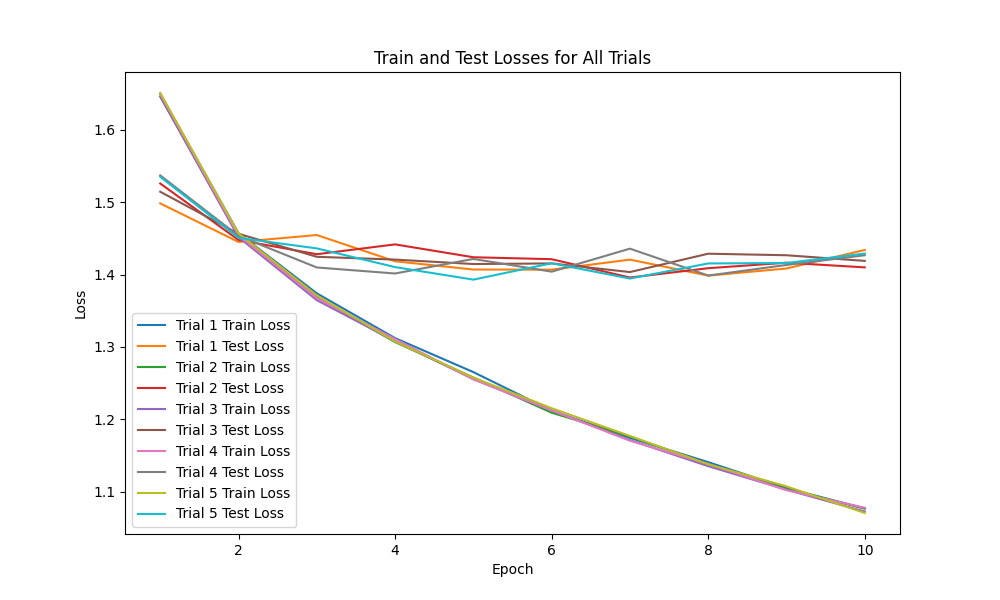
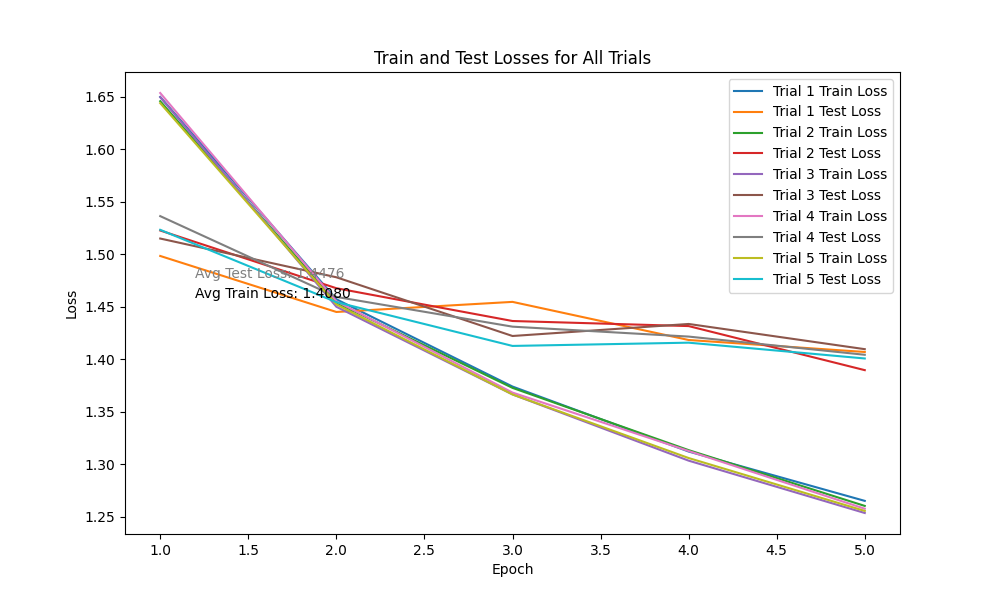
add the avg. metrics (accuracy, std., loss)

diff --git a/benchmark_2layers.py b/benchmark_2layers.py
@@ -6,6 +6,7 @@ from sklearn.metrics import accuracy_score
 import matplotlib.pyplot as plt
 import time
 import torch.optim as optim
+import numpy as np
 
 # Set device (GPU if available, else CPU)
 device = 'cuda' if torch.cuda.is_available() else 'cpu'
@@ -47,7 +48,7 @@ class TwoLayerNet(nn.Module):
 
 # Training parameters
 num_trials = 5
-trial_epochs = 10 # training epochs within each trial
+trial_epochs = 5
 
 # Store trial metrics
 trial_metrics = []
@@ -71,8 +72,7 @@ for trial in range(num_trials):
     
     # Store loss values for plotting
     train_losses = []
-    test_losses = []  # Initialize test loss list for each trial
-    accuracies = []   # Initialize accuracy list for each trial
+    test_losses = []  
 
     start_trial_time = time.time()  # Record start time of trial
 
@@ -117,7 +117,6 @@ for trial in range(num_trials):
 
             test_loss /= len(testloader)  # Calculate average test loss
             accuracy = accuracy_score(all_labels, all_preds)
-            accuracies.append(accuracy)  # Append accuracy to the list
 
             test_losses.append(test_loss)  # Append test loss to the list
 
@@ -128,14 +127,31 @@ for trial in range(num_trials):
     trial_metrics.append({
         "train_losses": train_losses,
         "test_losses": test_losses,
-        "accuracies": accuracies
+        "accuracy": accuracy
     })
     
-
 # Calculate the total time taken for all trials
 end_time = time.time()
 total_time = end_time - start_time
 print(f"Total time taken for all trials: {total_time:.2f} seconds")
+
+# Calculate average training and testing losses and accuracy
+avg_train_losses = [sum(metrics['train_losses']) / trial_epochs for metrics in trial_metrics]
+avg_test_losses = [sum(metrics['test_losses']) / trial_epochs for metrics in trial_metrics]
+avg_accuracies = [metrics['accuracy'] for metrics in trial_metrics]
+
+# Calculate average standard deviations of training and testing losses
+std_train_losses = [np.std(metrics['train_losses']) for metrics in trial_metrics]
+std_test_losses = [np.std(metrics['test_losses']) for metrics in trial_metrics]
+
+# Calculate and print average values
+avg_train_loss = sum(avg_train_losses) / num_trials
+avg_test_loss = sum(avg_test_losses) / num_trials
+avg_accuracy = sum(avg_accuracies) / num_trials
+
+# Calculate and print average standard deviations
+avg_std_train_loss = sum(std_train_losses) / num_trials
+avg_std_test_loss = sum(std_test_losses) / num_trials
 
 # Concatenate the losses from all trials
 all_train_losses = []
@@ -153,5 +169,20 @@ for trial in range(num_trials):
 plt.xlabel('Epoch')
 plt.ylabel('Loss')
 plt.title('Train and Test Losses for All Trials')
-plt.legend()
+
+# Add legend with average metrics
+plt.legend() 
+
+# Add average metrics annotations with adjusted x-coordinates
+x_coord = 1.2  # Adjust the x-coordinate for better positioning
+plt.text(x_coord, avg_train_loss + 0.05, f'Avg Train Loss: {avg_train_loss:.4f}', color='black')
+plt.text(x_coord, avg_test_loss + 0.03, f'Avg Test Loss: {avg_test_loss:.4f}', color='gray')
+plt.text(x_coord, avg_accuracy - 0.03, f'Avg Accuracy: {avg_accuracy:.4f}', color='green')
+plt.text(x_coord, avg_std_train_loss - 0.05, f'Avg Std Train Loss: {avg_std_train_loss:.4f}', color='blue')
+plt.text(x_coord, avg_std_test_loss - 0.07, f'Avg Std Test Loss: {avg_std_test_loss:.4f}', color='orange')
+plt.tight_layout()  
+
+# Save the plot as an image file with higher resolution
+plt.savefig('metrics_plot.png', dpi=300)
+
 plt.show()

diff --git a/benchmark_3layers.py b/benchmark_3layers.py
@@ -6,6 +6,7 @@ from sklearn.metrics import accuracy_score
 import matplotlib.pyplot as plt
 import time
 import torch.optim as optim
+import numpy as np
 
 # Set device (GPU if available, else CPU)
 device = 'cuda' if torch.cuda.is_available() else 'cpu'
@@ -50,7 +51,7 @@ class ThreeLayerNet(nn.Module):
 
 # Training parameters
 num_trials = 5
-trial_epochs = 10
+trial_epochs = 5
 
 # Store trial metrics
 trial_metrics = []
@@ -74,8 +75,7 @@ for trial in range(num_trials):
     
     # Store loss values for plotting
     train_losses = []
-    test_losses = []  # Initialize test loss list for each trial
-    accuracies = []   # Initialize accuracy list for each trial
+    test_losses = []  
 
     start_trial_time = time.time()  # Record start time of trial
 
@@ -120,7 +120,6 @@ for trial in range(num_trials):
 
             test_loss /= len(testloader)  # Calculate average test loss
             accuracy = accuracy_score(all_labels, all_preds)
-            accuracies.append(accuracy)  # Append accuracy to the list
 
             test_losses.append(test_loss)  # Append test loss to the list
 
@@ -131,13 +130,31 @@ for trial in range(num_trials):
     trial_metrics.append({
         "train_losses": train_losses,
         "test_losses": test_losses,
-        "accuracies": accuracies
+        "accuracy": accuracy
     })
     
 # Calculate the total time taken for all trials
 end_time = time.time()
 total_time = end_time - start_time
 print(f"Total time taken for all trials: {total_time:.2f} seconds")
+
+# Calculate average training and testing losses and accuracy
+avg_train_losses = [sum(metrics['train_losses']) / trial_epochs for metrics in trial_metrics]
+avg_test_losses = [sum(metrics['test_losses']) / trial_epochs for metrics in trial_metrics]
+avg_accuracies = [metrics['accuracy'] for metrics in trial_metrics]
+
+# Calculate average standard deviations of training and testing losses
+std_train_losses = [np.std(metrics['train_losses']) for metrics in trial_metrics]
+std_test_losses = [np.std(metrics['test_losses']) for metrics in trial_metrics]
+
+# Calculate and print average values
+avg_train_loss = sum(avg_train_losses) / num_trials
+avg_test_loss = sum(avg_test_losses) / num_trials
+avg_accuracy = sum(avg_accuracies) / num_trials
+
+# Calculate and print average standard deviations
+avg_std_train_loss = sum(std_train_losses) / num_trials
+avg_std_test_loss = sum(std_test_losses) / num_trials
 
 # Concatenate the losses from all trials
 all_train_losses = []
@@ -155,5 +172,20 @@ for trial in range(num_trials):
 plt.xlabel('Epoch')
 plt.ylabel('Loss')
 plt.title('Train and Test Losses for All Trials')
-plt.legend()
+
+# Add legend with average metrics
+plt.legend() 
+
+# Add average metrics annotations with adjusted x-coordinates
+x_coord = 1.2  # Adjust the x-coordinate for better positioning
+plt.text(x_coord, avg_train_loss + 0.05, f'Avg Train Loss: {avg_train_loss:.4f}', color='black')
+plt.text(x_coord, avg_test_loss + 0.03, f'Avg Test Loss: {avg_test_loss:.4f}', color='gray')
+plt.text(x_coord, avg_accuracy - 0.03, f'Avg Accuracy: {avg_accuracy:.4f}', color='green')
+plt.text(x_coord, avg_std_train_loss - 0.05, f'Avg Std Train Loss: {avg_std_train_loss:.4f}', color='blue')
+plt.text(x_coord, avg_std_test_loss - 0.07, f'Avg Std Test Loss: {avg_std_test_loss:.4f}', color='orange')
+plt.tight_layout()  
+
+# Save the plot as an image file with higher resolution
+plt.savefig('metrics_plot.png', dpi=300)
+
 plt.show()

diff --git a/perturbation_3layers.py b/perturbation_3layers.py
@@ -7,6 +7,7 @@ import matplotlib.pyplot as plt
 import copy
 import time
 import torch.optim as optim
+import numpy as np
 
 # Set device (GPU if available, else CPU)
 device = 'cuda' if torch.cuda.is_available() else 'cpu'
@@ -48,10 +49,11 @@ class ThreeLayerNet(nn.Module):
         out = self.relu(out)
         out = self.fc3(out)
         return out
-    
+
+
 # Training parameters
 num_trials = 5
-trial_epochs = 10
+trial_epochs = 5
 
 # Perturbation scale
 perturbation_scale = 0.1
@@ -81,7 +83,7 @@ for trial in range(num_trials):
     
     # Store loss values for plotting
     train_losses = []
-    test_losses = []  # Initialize test loss list for each trial
+    test_losses = []  
 
     start_trial_time = time.time()  # Record start time of trial
 
@@ -166,6 +168,24 @@ end_time = time.time()
 total_time = end_time - start_time
 print(f"Total time taken for all trials: {total_time:.2f} seconds")
 
+# Calculate average training and testing losses and accuracy
+avg_train_losses = [sum(metrics['train_losses']) / trial_epochs for metrics in trial_metrics]
+avg_test_losses = [sum(metrics['test_losses']) / trial_epochs for metrics in trial_metrics]
+avg_accuracies = [metrics['accuracy'] for metrics in trial_metrics]
+
+# Calculate average standard deviations of training and testing losses
+std_train_losses = [np.std(metrics['train_losses']) for metrics in trial_metrics]
+std_test_losses = [np.std(metrics['test_losses']) for metrics in trial_metrics]
+
+# Calculate and print average values
+avg_train_loss = sum(avg_train_losses) / num_trials
+avg_test_loss = sum(avg_test_losses) / num_trials
+avg_accuracy = sum(avg_accuracies) / num_trials
+
+# Calculate and print average standard deviations
+avg_std_train_loss = sum(std_train_losses) / num_trials
+avg_std_test_loss = sum(std_test_losses) / num_trials
+
 # Concatenate the losses from all trials
 all_train_losses = []
 all_test_losses = []
@@ -182,5 +202,20 @@ for trial in range(num_trials):
 plt.xlabel('Epoch')
 plt.ylabel('Loss')
 plt.title('Train and Test Losses for All Trials')
-plt.legend()
+
+# Add legend with average metrics
+plt.legend() 
+
+# Add average metrics annotations with adjusted x-coordinates
+x_coord = 1.2  # Adjust the x-coordinate for better positioning
+plt.text(x_coord, avg_train_loss + 0.05, f'Avg Train Loss: {avg_train_loss:.4f}', color='black')
+plt.text(x_coord, avg_test_loss + 0.03, f'Avg Test Loss: {avg_test_loss:.4f}', color='gray')
+plt.text(x_coord, avg_accuracy - 0.03, f'Avg Accuracy: {avg_accuracy:.4f}', color='green')
+plt.text(x_coord, avg_std_train_loss - 0.05, f'Avg Std Train Loss: {avg_std_train_loss:.4f}', color='blue')
+plt.text(x_coord, avg_std_test_loss - 0.07, f'Avg Std Test Loss: {avg_std_test_loss:.4f}', color='orange')
+plt.tight_layout()  
+
+# Save the plot as an image file with higher resolution
+plt.savefig('metrics_plot.png', dpi=300)
+
 plt.show()

diff --git a/perturbation_2layers.py b/perturbation_2layers.py
@@ -7,6 +7,7 @@ import matplotlib.pyplot as plt
 import copy
 import time
 import torch.optim as optim
+import numpy as np
 
 # Set device (GPU if available, else CPU)
 device = 'cuda' if torch.cuda.is_available() else 'cpu'
@@ -48,7 +49,7 @@ class TwoLayerNet(nn.Module):
 
 # Training parameters
 num_trials = 5
-trial_epochs = 10
+trial_epochs = 5
 
 # Perturbation scale
 perturbation_scale = 0.1
@@ -78,7 +79,7 @@ for trial in range(num_trials):
     
     # Store loss values for plotting
     train_losses = []
-    test_losses = []  # Initialize test loss list for each trial
+    test_losses = []  
 
     start_trial_time = time.time()  # Record start time of trial
 
@@ -163,6 +164,24 @@ end_time = time.time()
 total_time = end_time - start_time
 print(f"Total time taken for all trials: {total_time:.2f} seconds")
 
+# Calculate average training and testing losses and accuracy
+avg_train_losses = [sum(metrics['train_losses']) / trial_epochs for metrics in trial_metrics]
+avg_test_losses = [sum(metrics['test_losses']) / trial_epochs for metrics in trial_metrics]
+avg_accuracies = [metrics['accuracy'] for metrics in trial_metrics]
+
+# Calculate average standard deviations of training and testing losses
+std_train_losses = [np.std(metrics['train_losses']) for metrics in trial_metrics]
+std_test_losses = [np.std(metrics['test_losses']) for metrics in trial_metrics]
+
+# Calculate and print average values
+avg_train_loss = sum(avg_train_losses) / num_trials
+avg_test_loss = sum(avg_test_losses) / num_trials
+avg_accuracy = sum(avg_accuracies) / num_trials
+
+# Calculate and print average standard deviations
+avg_std_train_loss = sum(std_train_losses) / num_trials
+avg_std_test_loss = sum(std_test_losses) / num_trials
+
 # Concatenate the losses from all trials
 all_train_losses = []
 all_test_losses = []
@@ -179,5 +198,20 @@ for trial in range(num_trials):
 plt.xlabel('Epoch')
 plt.ylabel('Loss')
 plt.title('Train and Test Losses for All Trials')
-plt.legend()
+
+# Add legend with average metrics
+plt.legend() 
+
+# Add average metrics annotations with adjusted x-coordinates
+x_coord = 1.2  # Adjust the x-coordinate for better positioning
+plt.text(x_coord, avg_train_loss + 0.05, f'Avg Train Loss: {avg_train_loss:.4f}', color='black')
+plt.text(x_coord, avg_test_loss + 0.03, f'Avg Test Loss: {avg_test_loss:.4f}', color='gray')
+plt.text(x_coord, avg_accuracy - 0.03, f'Avg Accuracy: {avg_accuracy:.4f}', color='green')
+plt.text(x_coord, avg_std_train_loss - 0.05, f'Avg Std Train Loss: {avg_std_train_loss:.4f}', color='blue')
+plt.text(x_coord, avg_std_test_loss - 0.07, f'Avg Std Test Loss: {avg_std_test_loss:.4f}', color='orange')
+plt.tight_layout()  
+
+# Save the plot as an image file with higher resolution
+plt.savefig('metrics_plot.png', dpi=300)
+
 plt.show()
